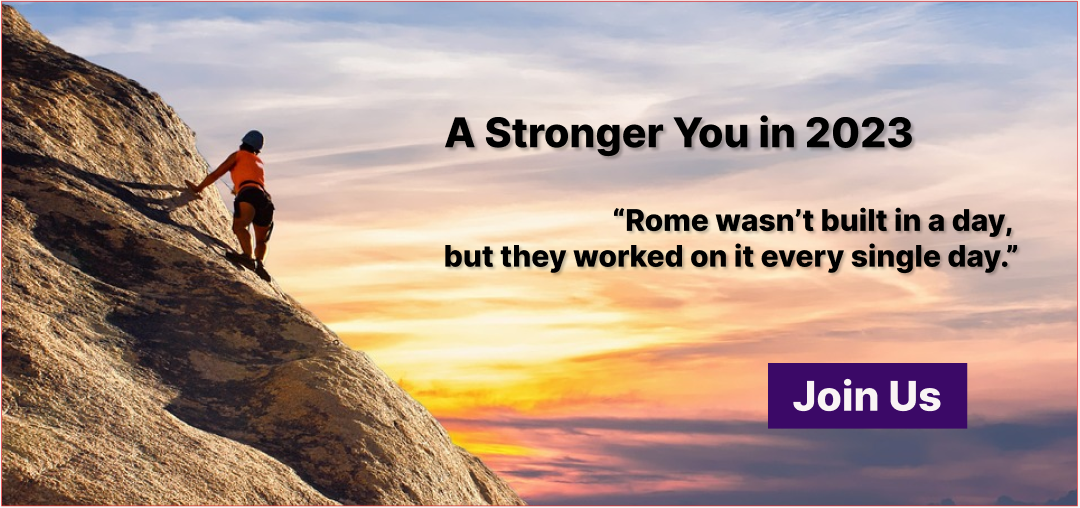
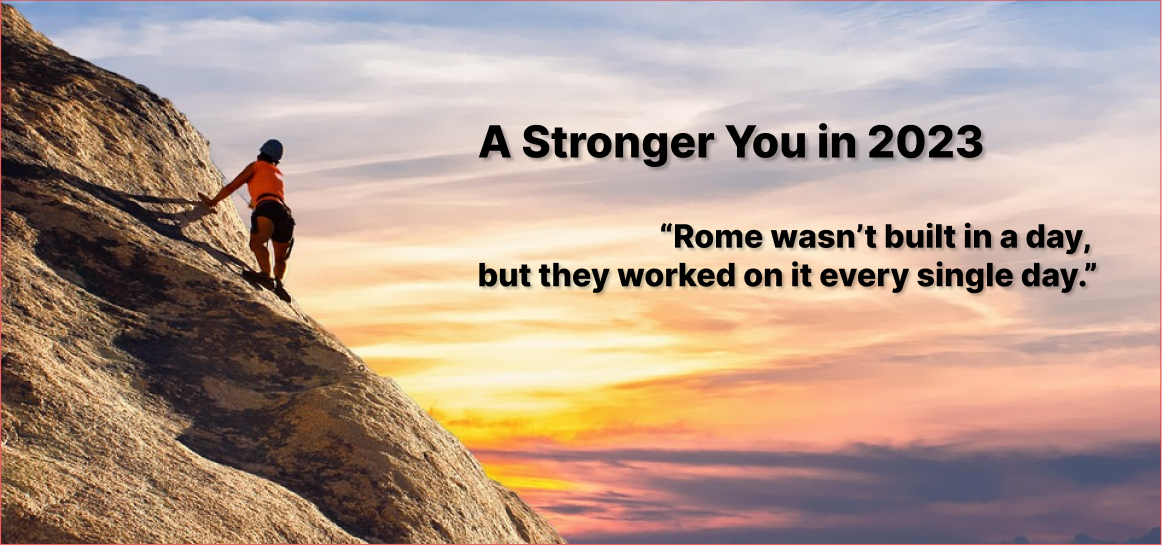
update slider1 add-edit-page

diff --git a/Sprint2/src/Pages/Edit.jsx b/Sprint2/src/Pages/Edit.jsx
@@ -4,56 +4,95 @@ import { useState } from "react";
 import { useNavigate } from "react-router-dom";
 
 const Edit = () => {
+  //Navigate
   const navigate = useNavigate();
   const submitButton = () => {
     navigate("/dashboard");
   };
 
+  //NameActivity
+  const [nameActivity, setNameActivity] = useState();
+
+  //Type Acrivity
+  const [activity, setActivity] = useState();
+  const handleActivity = (active) => {
+    setActivity(active);
+  };
+
+  //Date 
+  const [date,setDate] = useState()
+
+  //Duration
+  const [duration,setDuration] = useState()
+
+  //Note
+  const [note,setNote] = useState()
+
   return (
     <div className="container-add">
-      <div className="container">
+      <div className="container-form-add-edit">
         <h1>Edit Your Activity</h1>
-        <NameActivity />
-        <TypeActivity />
-        <DateAcitvity />
-        <DurationNote />
+        <NameActivity nameActivity={nameActivity} setNameActivity={setNameActivity}/>
+        <TypeActivity handleActivity={handleActivity} activity={activity} />
+        <DateAcitvity date={date} setDate={setDate} />
+        <DurationNote duration={duration} setDuration={setDuration} note={note} setNote={setNote} />
         <Buttom submitButton={submitButton} />
       </div>
     </div>
   );
 };
 
-const NameActivity = () => {
+const NameActivity = (props) => {
+  const { nameActivity,setNameActivity } = props;
   return (
     <div className="NameActivity">
-      <label>Activity Name </label>
+      <label>Activity Name : {nameActivity} </label>
       <br />
-      <input type="text"></input>
+      <input onChange={(event)=> setNameActivity(event.target.value)} type="text" ></input>
     </div>
   );
 };
 
-const TypeActivity = () => {
+const TypeActivity = (props) => {
+  const { handleActivity, activity } = props;
   return (
     <div className="TypeActivity">
-      <label>Activity Type :</label>
+      <label>Activity Type : {activity}</label>
       <ul>
-        <li>
+        <li
+          id={activity === "walking" ? "SeleteActive" : ""}
+          onClick={() => handleActivity("walking")}
+        >
           <i className="fa-solid fa-person-walking"></i>
         </li>
-        <li>
+        <li
+          id={activity === "running" ? "SeleteActive" : ""}
+          onClick={() => handleActivity("running")}
+        >
           <i className="fa-sharp fa-solid fa-person-running"></i>
         </li>
-        <li>
+        <li
+          id={activity === "biking" ? "SeleteActive" : ""}
+          onClick={() => handleActivity("biking")}
+        >
           <i className="fa-sharp fa-solid fa-person-biking"></i>
         </li>
-        <li>
+        <li
+          id={activity === "swimming" ? "SeleteActive" : ""}
+          onClick={() => handleActivity("swimming")}
+        >
           <i className="fa-sharp fa-solid fa-person-swimming"></i>
         </li>
-        <li>
+        <li
+          id={activity === "hiking" ? "SeleteActive" : ""}
+          onClick={() => handleActivity("hiking")}
+        >
           <i className="fa-sharp fa-solid fa-person-hiking"></i>
         </li>
-        <li>
+        <li
+          id={activity === "plus" ? "SeleteActive" : ""}
+          onClick={() => handleActivity("plus")}
+        >
           <i className="fa-sharp fa-solid fa-plus"></i>
         </li>
       </ul>
@@ -61,35 +100,42 @@ const TypeActivity = () => {
   );
 };
 
-const DateAcitvity = () => {
+const DateAcitvity = (props) => {
+  const {date ,setDate} = props
   return (
     <div className="DateAcitvity">
-      <label>Date</label>
+      <label>Date : {date}</label>
       <br />
-      <input type="date" placeholder="Date / Month / Year"></input>
+      <input type="date" onChange={(event)=> setDate(event.target.value)} placeholder="Date / Month / Year"></input>
     </div>
   );
 };
 
-const DurationNote = () => {
+const DurationNote = (props) => {
+  const { duration,setDuration,note,setNote} = props
+  const navigate = useNavigate();
+  const submitButton = () => {
+    navigate("/dashboard");
+  };
+
   return (
     <div className="DurationNote">
       <div>
-        <label>Duration</label>
+        <label>Duration :{duration}</label>
         <br />
-        <input type="text"></input>
+        <input type="number" onChange={(event)=> setDuration(event.target.value)}/><span>min</span>
       </div>
       <div>
-        <label>Note</label>
+        <label>Note: {note}</label>
         <br />
-        <input type="text"></input>
+        <input type="text" onChange={(event)=> setNote(event.target.value)}/>
       </div>
     </div>
   );
 };
 
 const Buttom = (props) => {
-    const {submitButton} = props
+  const { submitButton } = props;
   return (
     <div className="Buttom">
       <button onClick={submitButton}>Save</button>

diff --git a/Sprint2/src/Styles/Slider1.css b/Sprint2/src/Styles/Slider1.css
@@ -5,29 +5,12 @@
   background-image: linear-gradient(var(--primary-color-light), white);
   position: relative;
 }
-.slider-img {
+.slide-top-img {
   width: 80%;
-  height: 350px;
-  animation-duration: 4s;
+  height: 500px;
 }
-/* .slider-top-img{
-  display: flex;
-  animation: slider 30s ease-in-out infinite alternate;
-}
-@keyframes slider{
-  0%{transform: translateX(0%);}
-  10%{transform: translateX(-100%);}
-  20%{transform: translateX(-100%);}
-  30%{transform: translateX(-200%);}
-  40%{transform: translateX(-200%);}
-  50%{transform: translateX(-200%);}
-  60%{transform: translateX(-300%);}
-  70%{transform: translateX(-300%);}
-  80%{transform: translateX(-300%);}
-  90%{transform: translateX(0%);}
-  100%{transform: translateX(0%);}
-} */
-.pervious {
+
+.pervious-slider-top {
   position: absolute;
   top: 35%;
   left: 30px;
@@ -41,11 +24,11 @@
   opacity: 0.5;
   transition: 0.3s;
 }
-.pervious:hover {
+.pervious-slider-top:hover {
   opacity: 1;
   background-color: rgba(0, 0, 0, 0.2);
 }
-.next {
+.next-slider-top {
   position: absolute;
   top: 35%;
   right: 30px;
@@ -59,7 +42,7 @@
   opacity: 0.5;
   transition: 0.3s;
 }
-.next:hover {
+.next-slider-top:hover {
   opacity: 1;
   background-color: rgba(0, 0, 0, 0.2);
 }
@@ -79,3 +62,27 @@
 #span-active {
   background-color: rgb(36, 35, 35);
 }
+.join-us-slider-top {
+  position: absolute;
+  bottom: 15%;
+  right: 15%;
+  background-color: var(--primary-color-dark);
+  font-size: 45px;
+  font-weight: 900;
+  color: white;
+  border: none;
+  border-radius: 10px;
+  padding-top: 10px;
+  padding-bottom: 8px;
+  width: 200px;
+  opacity: 0.5;
+  transition: 0.3s;
+}
+.join-us-slider-top:hover {
+  opacity: 1;
+}
+#join-us-slider-top-none {
+  display: none;
+
+}
+

diff --git a/Sprint2/src/Components/Slider1.jsx b/Sprint2/src/Components/Slider1.jsx
@@ -1,5 +1,6 @@
 import "../Styles/Slider1.css";
 import { useState, useEffect, useRef } from "react";
+import { Link } from "react-router-dom";
 
 // Import Image
 import Image1 from "../Images/Landing/slide-top-1.png";
@@ -10,6 +11,7 @@ const Slider = () => {
   const timeRef = useRef(null);
   const slideImage = [Image1, Image2, Image3];
   const [Image, setImage] = useState(0);
+
 
   const next = () => {
     if (Image < slideImage.length - 1) {
@@ -33,7 +35,7 @@ const Slider = () => {
     }
     timeRef.current = setTimeout(() => {
       next();
-    }, 3000);
+    }, 4000);
 
     return () => clearTimeout(timeRef.current);
   });
@@ -48,9 +50,7 @@ const Slider = () => {
   return (
     <div className="slider-top">
       <div className="slider-top-img">
-        <img className="slider-img" src={slideImage[Image]} />
-        {/* <img className="slider-img" src={slideImage[1]} />
-        <img className="slider-img" src={slideImage[2]} /> */}
+        <img className="slide-top-img" src={slideImage[Image]} />
       </div>
       <div className="slider-top-dot">
         <span
@@ -66,12 +66,17 @@ const Slider = () => {
           onClick={() => dotImage(2)}
         ></span>
       </div>
-      <button className="pervious" onClick={() => prev()}>
+      <button className="pervious-slider-top" onClick={() => prev()}>
         &#8249;
       </button>
-      <button className="next" onClick={() => next()}>
+      <button className="next-slider-top" onClick={() => next()}>
         &#8250;
       </button>
+      <Link to="/signup">
+        <button id={Image === 0 ? "join-us-slider-top-none" : " "} className="join-us-slider-top">
+          Join US
+        </button>
+      </Link>
     </div>
   );
 };

diff --git a/Sprint2/src/Pages/Add.jsx b/Sprint2/src/Pages/Add.jsx
@@ -30,7 +30,7 @@ const Add = () => {
 
   return (
     <div className="container-add">
-      <div className="container">
+      <div className="container-form-add-edit">
         <h1>Add Your Activity</h1>
         <NameActivity nameActivity={nameActivity} setNameActivity={setNameActivity}/>
         <TypeActivity handleActivity={handleActivity} activity={activity} />

diff --git a/Sprint2/src/Styles/Add.css b/Sprint2/src/Styles/Add.css
@@ -6,14 +6,14 @@
   padding-top: 100px;
 }
 
-.container {
+.container-form-add-edit {
   background-color: var(--primary-color-light);
   border-radius: 20px;
   padding: 30px;
   width: 500px;
   height: 550px;
 }
-.container h1 {
+.container-form-add-edit h1 {
   text-align: center;
   font-size: 1.5rem;
 }
